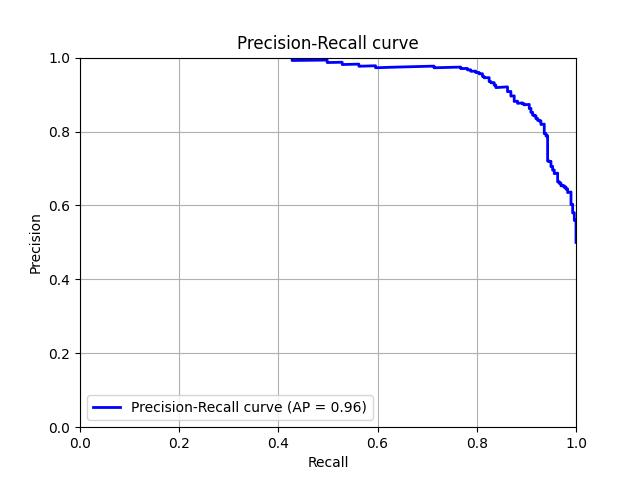
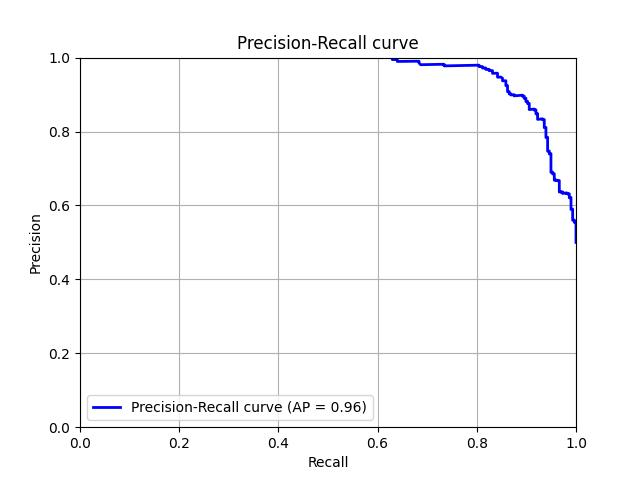
improve weighting

Changed region(s): [[0.4688, 0.0938, 0.8438, 0.25], [0.8438, 0.3125, 0.9062, 0.4688], [0.8438, 0.25, 0.875, 0.2812]]

diff --git a/src/cli/a2_eval.py b/src/cli/a2_eval.py
@@ -23,6 +23,7 @@ from utils.general.modifier import dict_modifier
 
 def run(cfg, n_feat):
     cudnn.benchmark = True
+    n_max = None
 
     model = Feature2DAirbusHelicopterAccelerometer(**cfg.engine.model.args)
     model.cuda()
@@ -30,6 +31,8 @@ def run(cfg, n_feat):
                                  False, False, True)
     model.eval()
 
+    if cfg.dataset.valid.norm_path is not None:
+        cfg.dataset.valid.norm_path = Path(cfg.dataset.valid.norm_path).expanduser()
     preprocessor = json.load(open(cfg.dataset.valid.norm_path)) if cfg.dataset.valid.norm_path is not None else dict(
         mean=0, std=1)
     transforms = build_transforms_val(preprocessor, transf_degree=0)
@@ -39,20 +42,22 @@ def run(cfg, n_feat):
     n_wind = int(Path(cfg.dataset.valid.df_path).stem.split('-')[-1])
     n_samples = int(Path(cfg.dataset.valid.df_path).stem.split('-')[-2])
     df = np.load(cfg.dataset.valid.df_path)
-    df = df.reshape(n_samples, n_wind, n_feat, n_feat)
-    df_gt = pd.read_csv(cfg.dataset.valid.labels_path)
+    df = df.reshape(n_samples, n_wind, n_feat, n_feat)[:n_max]
+    df_gt = pd.read_csv(cfg.dataset.valid.labels_path)[:n_max]
     assert len(df) == len(df_gt)
 
     # Loop over samples.
     dir_out = Path(cfg.engine.model.resume.load_model_fn).expanduser().parent.parent
     dir_out = dir_out / 'val'
     dir_out.makedirs_p()
-    if not (Path(dir_out) / 'results_eval.csv').exists():
+    if True or not (Path(dir_out) / 'results_eval.csv').exists():
         with torch.no_grad():
             for isample in tqdm(range(n_samples)):
                 features = df[isample]
                 reconstruction_errors = []
                 for freqwind_features in features:
+                    freqwind_features = freqwind_features * (-0.05 / (1 + np.arange(64))).reshape(1, 64)
+
                     freqwind_features = transforms(freqwind_features)
 
                     if cfg.dataset.valid.norm_max_min:
@@ -63,8 +68,7 @@ def run(cfg, n_feat):
 
                     freqwind_features = torch.tensor(freqwind_features, dtype=torch.float)
                     freqwind_features = freqwind_features.unsqueeze(0)
-                    freqwind_features = freqwind_features.detach().requires_grad_(requires_grad=False).cuda(
-                        non_blocking=True)
+                    freqwind_features = freqwind_features.cuda(non_blocking=True)
 
                     logits, _, _ = model(freqwind_features, is_train=False)
 
@@ -73,11 +77,24 @@ def run(cfg, n_feat):
                     logits = logits.cpu().numpy()
                     freqwind_features = freqwind_features.cpu().numpy()
 
-                    reconstruction_error = np.power(logits - freqwind_features, 2)
-                    reconstruction_error = reconstruction_error.max().item()
+                    # Reduction from 2d-matrix to single frame error
+                    l2 = np.power(logits - freqwind_features, 2)
+                    mask = l2 > 0.0055  # np.percentile(reconstruction_error, 99)
+                    # reconstruction_error = mask * l2
+                    reconstruction_error = mask
+                    # reconstruction_error = l2
+
+                    # reconstruction_error = reconstruction_error.max().item()
+                    reconstruction_error = reconstruction_error.mean().item()
+
                     reconstruction_errors.append(reconstruction_error)
 
+                # Reduction from N-essim temporal window to a single error
+                # df_gt.loc[isample, 'reconstruction_error'] = np.max(reconstruction_errors)
                 df_gt.loc[isample, 'reconstruction_error'] = np.mean(reconstruction_errors)
+
+                if n_max is not None and isample == n_max-1:
+                    break
 
         df_gt.to_csv(Path(dir_out) / 'results_eval.csv', index=False)
     else:

diff --git a/src/dataset/ds.py b/src/dataset/ds.py
@@ -25,6 +25,7 @@ class DatasetAirbusHelicopterAccelerometer(Dataset):
                  norm_path: str = None,
                  labels_path: str = None,
                  stage: str = 'train',
+                 weight: bool = False,
                  transf_degree: float = 0,
                  norm_max_min: bool = True,
                  rank: int = 0,
@@ -32,6 +33,7 @@ class DatasetAirbusHelicopterAccelerometer(Dataset):
                  ):
         self.logger = logging.getLogger(
             __name__ + ': ' + self.__class__.__qualname__ + '-' + inspect.currentframe().f_code.co_name)
+        self.weight = weight
         self.rank = rank
         self.verbose = verbose
         self.norm_max_min = norm_max_min
@@ -78,6 +80,10 @@ class DatasetAirbusHelicopterAccelerometer(Dataset):
     def __getitem__(self, idx) -> Tuple[Tensor, int]:
         features = np.load(self.matrix_paths[idx])
         features = self.transforms(features)
+
+        if self.weight:
+            features = features * (-0.05 / (1 + np.arange(64))).reshape(1, 64)
+
         if self.norm_max_min:
             features = (features - features.min()) / (features.max() - features.min() + 1.e-8)
             features = 2 * features - 1
@@ -106,12 +112,12 @@ def main_worker_for_test(this_gpu, n_gpus_per_node):
     _N_EXAMPLES = 20
     _COMPUTE_STATS = True
 
-    compute_normalization = False
+    compute_normalization = True
     for hyperparameters in ['127_126_8']:
         ds = DatasetAirbusHelicopterAccelerometer(
             stage='train',
-            dir_matrix=f'~/MyTmp/AirbusHelicopterAccelerometer/data/dftrain_127_126_8-1677-120',
-            norm_path=None if compute_normalization else '~/MyTmp/AirbusHelicopterAccelerometer/data/normalization_127_126_8.json',
+            dir_matrix=f'~/MyTmp/AirbusHelicopterAccelerometer/data-db/dftrain_127_126_8-1677-120',
+            norm_path=None if compute_normalization else '~/MyTmp/AirbusHelicopterAccelerometer/data-db/normalization_127_126_8.json',
             # labels_path='../../data/dfvalid_groundtruth.csv',
             norm_max_min=not compute_normalization,
             transf_degree=0,
@@ -136,7 +142,7 @@ def main_worker_for_test(this_gpu, n_gpus_per_node):
             cnt += bs * n_twind
             mean += _features.sum((0, 1)).to(torch.float)
             mean2 += _features.pow(2).sum((0, 1)).to(torch.float)
-            print(_features.shape, _lbls.shape)
+            # print(_features.shape, _lbls.shape)
             if not _COMPUTE_STATS and _it + 1 >= _N_EXAMPLES:
                 break
 
@@ -147,7 +153,7 @@ def main_worker_for_test(this_gpu, n_gpus_per_node):
         mean = [float(_) for _ in mean.tolist()]
         std = [float(_) for _ in std.tolist()]
         if compute_normalization:
-            fn_norm_out = f'~/MyTmp/AirbusHelicopterAccelerometer/data/normalization_{hyperparameters}.json'
+            fn_norm_out = f'~/MyTmp/AirbusHelicopterAccelerometer/data-db/normalization_{hyperparameters}.json'
             fn_norm_out = Path(fn_norm_out).expanduser()
             json.dump(dict(mean=mean, std=std), open(fn_norm_out, 'w'), indent=1)
         print()

diff --git a/src/cli/eval_utils.py b/src/cli/eval_utils.py
@@ -3,22 +3,40 @@ from path import Path
 from sklearn.metrics import precision_recall_curve, average_precision_score
 from sklearn.metrics import roc_auc_score
 from sklearn.metrics import roc_curve, auc
+import numpy as np
 
 
 def plot_eval(df_gt, dir_out):
-    score = -df_gt['reconstruction_error']
+    score = df_gt['reconstruction_error']
 
     auc_score = roc_auc_score(df_gt['anomaly'], score)
     n_neg = len(df_gt[df_gt["anomaly"] == 0])
     n_pos = len(df_gt[df_gt["anomaly"] == 1])
     print(f'auc = {auc_score}')
     print(f'n_pos, n_neg = {n_pos}, {n_neg}')
-    print(f'reconstruction_error A = {df_gt[df_gt["anomaly"] == 0]["reconstruction_error"].mean()}')
-    print(f'reconstruction_error B = {df_gt[df_gt["anomaly"] == 1]["reconstruction_error"].mean()}')
+    print(f'reconstruction_error 0 = {df_gt[df_gt["anomaly"] == 0]["reconstruction_error"].mean()}')
+    print(f'reconstruction_error 1 = {df_gt[df_gt["anomaly"] == 1]["reconstruction_error"].mean()}')
 
     # Calculate ROC curve
     fpr, tpr, thresholds = roc_curve(df_gt['anomaly'], score)
     roc_auc = auc(fpr, tpr)
+
+    # Find the threshold where FPR is closest to X
+    print()
+    target_fpr = 0.01
+    idx = (np.abs(fpr - target_fpr)).argmin()
+    tpr_at_target_fpr = tpr[idx]
+    threshold_at_target_fpr = thresholds[idx]
+    print(f"TPR at FPR = 0.01: {tpr_at_target_fpr}")
+    print(f"Threshold at FPR = 0.01: {threshold_at_target_fpr}")
+
+    target_tpr = 0.85
+    idx = (np.abs(tpr - target_tpr)).argmin()
+    fpr_at_target_tpr = fpr[idx]
+    threshold_at_target_tpr = thresholds[idx]
+    print(f"FPR at TPR = 0.85: {fpr_at_target_tpr}")
+    print(f"Threshold at TPR = 0.85: {threshold_at_target_tpr}")
+    print()
 
     # Plotting
     plt.figure()
@@ -32,7 +50,7 @@ def plot_eval(df_gt, dir_out):
     plt.legend(loc='lower right')
     plt.grid()
     plt.savefig(Path(dir_out) / 'roc_curve.jpg')
-    plt.show()
+    # plt.show()
 
     # Calculate Precision-Recall curve
     precision, recall, thresholds = precision_recall_curve(df_gt['anomaly'], score)
@@ -52,15 +70,15 @@ def plot_eval(df_gt, dir_out):
     plt.grid()
     plt.legend(loc='lower left')
     plt.savefig(Path(dir_out) / 'precision-recall.jpg')
-    plt.show()
+    # plt.show()
 
     # Plotting
     reconstruction_error_0 = df_gt[df_gt["anomaly"] == 0]["reconstruction_error"]
     reconstruction_error_1 = df_gt[df_gt["anomaly"] == 1]["reconstruction_error"]
     fig, ax = plt.subplots(figsize=(6, 6))
-    ax.hist(reconstruction_error_0, bins=50, density=True, label="reconstruction_error A", alpha=.6, color="green")
-    ax.hist(reconstruction_error_1, bins=50, density=True, label="reconstruction_error B", alpha=.6, color="red")
+    ax.hist(reconstruction_error_0, bins=50, density=True, label="reconstruction_error 0", alpha=.6, color="green")
+    ax.hist(reconstruction_error_1, bins=50, density=True, label="reconstruction_error 1", alpha=.6, color="red")
     plt.title("Distribution of the reconstruction errors")
     plt.legend()
     plt.savefig(Path(dir_out) / 'distribution.jpg')
-    plt.show()
+    # plt.show()

diff --git a/src/models/model_zoo.py b/src/models/model_zoo.py
@@ -28,7 +28,7 @@ class Feature2DAirbusHelicopterAccelerometer(BaseModel):
                 nn.Conv2d(self.nc_out // 2, self.nc_out, kernel_size=ks, stride=2, padding=1),
                 nn.BatchNorm2d(self.nc_out),
                 activation,
-                nn.Dropout2d(0.1),
+                # nn.Dropout2d(0.1),
             )
             self.decoder = nn.Sequential(
                 nn.ConvTranspose2d(self.nc_out, self.nc_out // 2, kernel_size=ks, stride=2, padding=1, output_padding=1),
@@ -53,7 +53,7 @@ class Feature2DAirbusHelicopterAccelerometer(BaseModel):
         self.fc_decode = nn.Sequential(
             nn.Linear(self.nc_out * self.nf_out**2, self.bottleneck_dim),
             activation,
-            nn.Dropout1d(0.1),
+            # nn.Dropout1d(0.1),
             nn.Linear(self.bottleneck_dim, self.nc_out * self.nf_out ** 2),
             activation,
         )
@@ -62,14 +62,14 @@ class Feature2DAirbusHelicopterAccelerometer(BaseModel):
             self.fc_mu = nn.Sequential(
                 nn.Linear(self.nc_out * self.nf_out**2, self.bottleneck_dim),
                 activation,
-                nn.Dropout(0.1),
+                # nn.Dropout(0.1),
                 nn.Linear(self.bottleneck_dim, self.nc_out * self.nf_out ** 2),
                 activation,
             )
             self.fc_logvar = nn.Sequential(
                 nn.Linear(self.nc_out * self.nf_out**2, self.bottleneck_dim),
                 activation,
-                nn.Dropout(0.1),
+                # nn.Dropout(0.1),
                 nn.Linear(self.bottleneck_dim, self.nc_out * self.nf_out ** 2),
                 activation,
             )

diff --git a/data/process.py b/data/process.py
@@ -40,8 +40,10 @@ def process(dir_out, win_length, n_fft, hop_length, eps=1.e-9):
                 window="hann",
                 win_length=win_length,
             ))
+            spectrogram = librosa.amplitude_to_db(spectrogram, ref=np.max)
             if idx == 0:
                 print(f'spectrogram.shape = {spectrogram.shape}')
+
             spectrograms.append(spectrogram)
         spectrograms = np.array(spectrograms)
         spectrograms = np.transpose(spectrograms, (0, 2, 1))
@@ -64,7 +66,7 @@ def process(dir_out, win_length, n_fft, hop_length, eps=1.e-9):
 
 def main(args=None):
     parser = argparse.ArgumentParser(description=__doc__, formatter_class=argparse.ArgumentDefaultsHelpFormatter)
-    parser.add_argument("--dir_out", type=str, default="~/MyTmp/AirbusHelicopterAccelerometer/data", help="")
+    parser.add_argument("--dir_out", type=str, default="~/MyTmp/AirbusHelicopterAccelerometer/data-db", help="")
     parser.add_argument("--n_fft", type=int, default=127, help="")
     parser.add_argument("--win_length", type=int, default=126, help="")
     parser.add_argument("--hop_length", type=int, default=8, help="")

diff --git a/README.md b/README.md
@@ -1,5 +1,11 @@
 # Airbus Helicopter Accelerometer
 
+## Introduction
+
+The objective of this project is to leverage the Airbus Helicopter Accelerometer Dataset to develop an unsupervised anomaly detection model using a convolutional autoencoder. This autoencoder is trained to reconstruct accelerometer signals from a dataset containing only normal behavior recordings. After training, the model is used to detect anomalies in a validation dataset by identifying discrepancies in signal reconstruction.
+
+In this approach, input data is transformed into 64x64 STFT spectrogram patches, with the y-axis representing frequencies in the Fourier domain and the x-axis representing a temporal window. This spectrogram-based representation, inspired by insights from this paper ([https://web3.arxiv.org/pdf/2005.07031v1](https://web3.arxiv.org/pdf/2005.07031v1)), serves as a strong baseline. Interestingly, the paper showed suboptimal results for spectrogram input, which motivated further exploration here.
+
 ## Installation
 
 ### Environment
@@ -50,11 +56,16 @@ export CUDA_VISIBLE_DEVICES=0
 ```
 
 ### Results
-The goal of this code is to utilize the Airbus Helicopter Accelerometer Dataset to create an unsupervised anomaly detection model using an autoencoder. The code is designed to train a convolutional autoencoder that reconstructs accelerometer signals from a training dataset, which consists solely of normal behavior recordings. This trained model is then applied to detect anomalies in the validation dataset.
+* The best model achieved an AUC (TPr-FPr) of 0.95, surpassing the SC model’s best AUC of 0.92 reported in the baseline paper.
+* Additionally, the True Positive Rate (TPR) has improved within low False Positive Rate (FPR) ranges, enhancing the model's usefulness in detecting anomalous engine behavior.
 
-In this approach, the input data is segmented into 64x64 STFT spectrogram patches, where the y-axis represents Fourier-domain frequencies, and the x-axis represents a temporal window. This spectrogram-based input representation, inspired by findings in the paper `https://web3.arxiv.org/pdf/2005.07031v1`, has yielded good results. While I experimented with several methods, I found that using spectrogram input provided superior results in terms of False Positive Rate (FPR) compared to the method reported in the paper. This improvement may stem from the addition of random noise in the input data and possibly from the method used to identify anomalies based on the reconstruction error.
+#### Future potential optimization
+* **Spectrogram weighting**: Initial tests reveal that how the spectrogram is weighted significantly affects model performance, suggesting that testing alternative weighting strategies may yield further improvements.
+* **Reconstruction error transformation**: The method for converting the 2D reconstruction error matrix into a single error score has a strong impact on results. Exploring thresholds, masking, and averaging techniques carefully on a dedicated validation-test split, could improve robustness.
+* **Spectrogram parameters**: Automating the search for optimal Fourier frequencies, hop length, and Hanning window length could also enhance model performance.
+* **Classification model**: Testing a classification model trained on validation data, as suggested in this [Coursera resource](https://coursera-assessments.s3.amazonaws.com/assessments/1680037725362/cedf03c2-655d-4c96-9f23-e2e9f96c6654/Helicopter%20Vibrations%20Anomaly%20Detection.pdf), may further clarify anomaly detection capabilities. However, ensuring data integrity by avoiding direct use of the validation set for training is essential to avoid overfitting, but in the link I only saw the validation set being used.
 
-Following the README and using the `cfg/train-adam-var.yaml` training configuration we can obtain the following results:
+Following the README and using the `cfg/train-adam-w.yaml` training configuration we can obtain the following results:
 
 ![distribution.jpg](doc/images/distribution.jpg)
 
